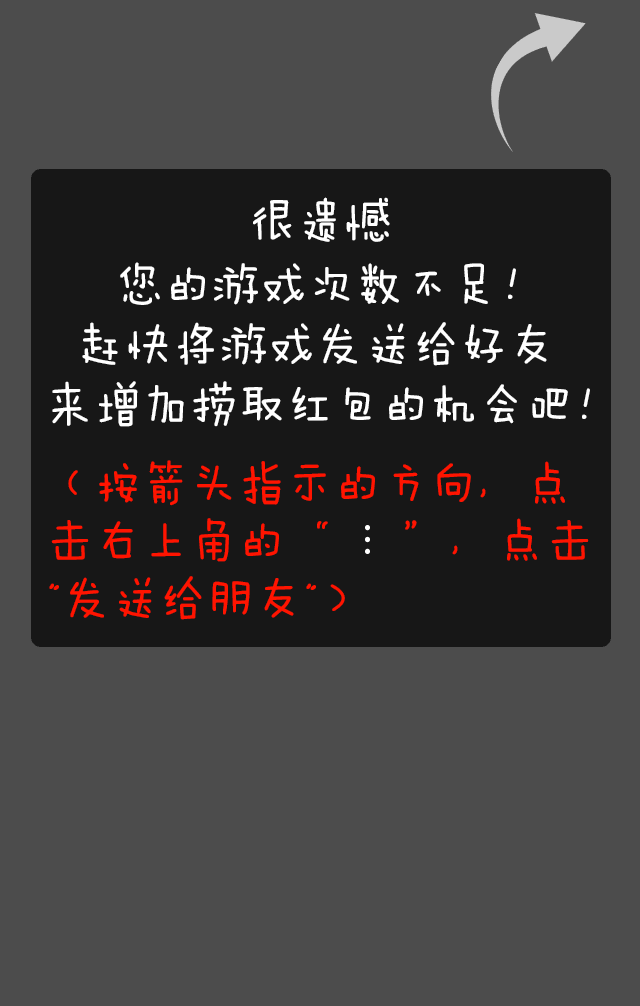
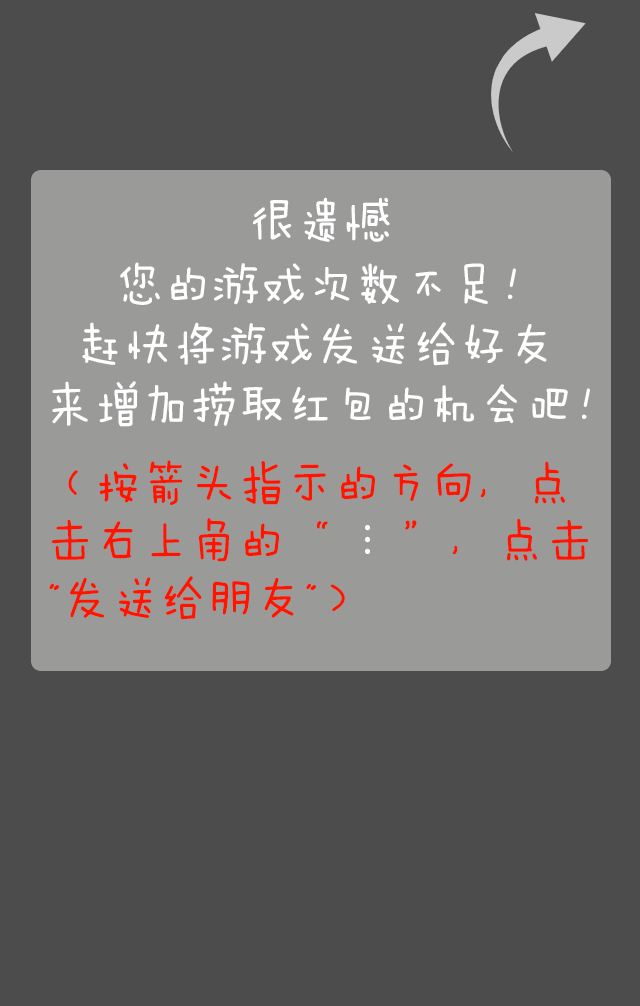
猴子捞月游戏修改：开始界面，使用红包按钮；提示

diff --git a/static/css/m/monkey.css b/static/css/m/monkey.css
@@ -73,20 +73,19 @@ body>div.game_start {
 .start_bt img {
 	width:100%;
 }
-.reward_bt {
+.use_hb {
 	position:absolute;
 	top:53.28%;
 	left:58.59%;
 	width:32.03%;
 	border-radius:20.57%;
 	box-shadow:0 5px 5px #333333;
-	cursor:pointer;
+	
 }
-.reward_bt img {
-	width:100%;
-}
+.reward_bt img,
+.use_hb img {width:100%}
 
-.use_hb {
+.reward_bt {
 	position:absolute;
 	top:60.44%;
 	left:50%;
@@ -96,9 +95,7 @@ body>div.game_start {
 	cursor:pointer;
 	display:block;
 }
-.use_hb img {
-	width:100%;
-}
+
 .lucky_chart {
 	position:absolute;
 	top:75.15%;
@@ -344,7 +341,7 @@ body>div.tip {
 	height:100%;
 	position:absolute;
 	z-index:1102;
-	background-image:url(../../img/m/monkey/tip.png);
+	
 	background-repeat:no-repeat;
 	background-position:left top;
 	background-size:100% 100%;
@@ -355,6 +352,11 @@ body>div.tip {
 }
 body>div.tip.active{
 	display:block;
+	background-image:url(../../img/m/monkey/tip.png);
+}
+body>div.tip.active1{
+	display:block;
+	background-image:url(../../img/m/monkey/share.png);
 }
 body>div.main {
 	width:100%;

diff --git a/static/js/monkey/youxi_v3.js b/static/js/monkey/youxi_v3.js
@@ -365,7 +365,7 @@
 			}
 			else
 			{
-				$(".tip").toggleClass("active");	
+				$(".tip").toggleClass("active1");	
 			}	
 		});
 		
